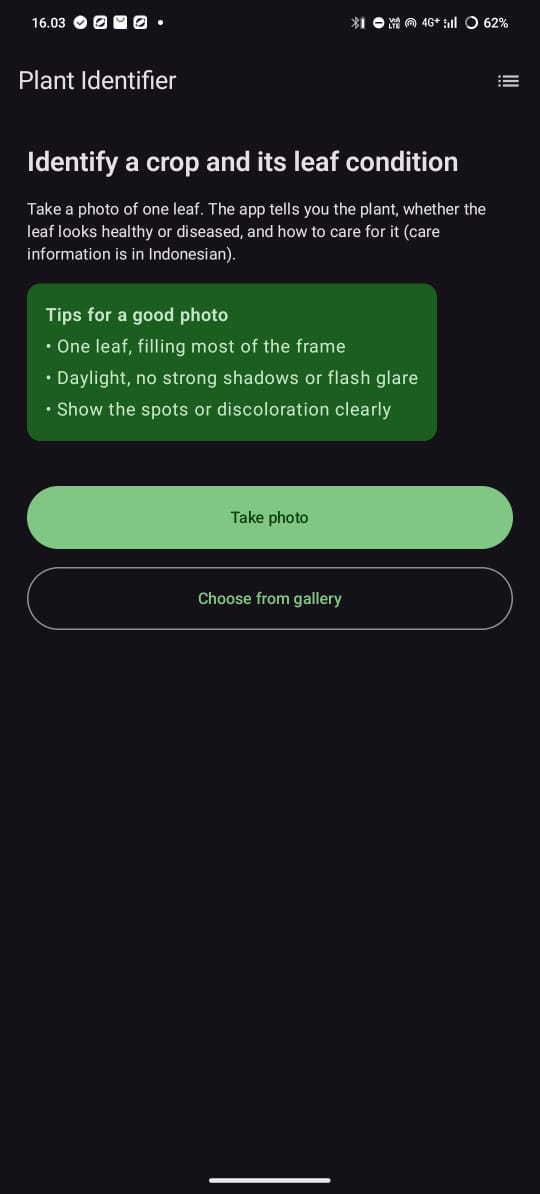
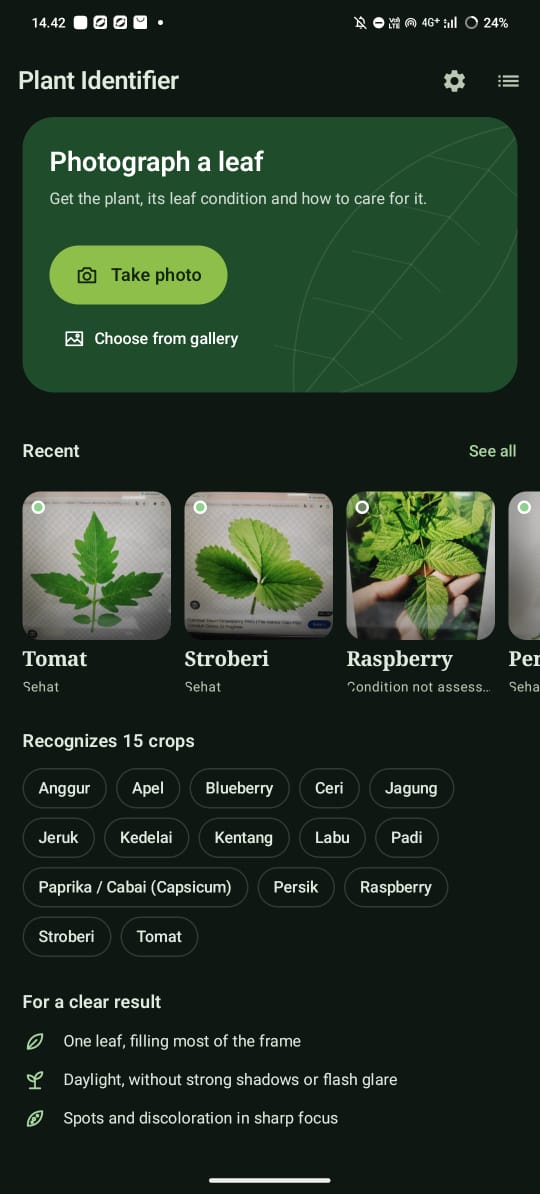
README: final version with screenshots of the redesigned app, phone testing, limitations and next steps

diff --git a/README.md b/README.md
@@ -121,9 +121,13 @@ by the notebook (`eval/` in the training artifacts, attached to each
 
 ## Android app
 
-| Home | Result | Not recognized | History |
+| Home | Result: Diagnosis | Result: Care | Result: Schedule |
 |---|---|---|---|
-| <img src="docs/images/android_home.jpg" width="190" alt="Home screen with take-photo and gallery buttons, recent diagnoses and supported plants"> | <img src="docs/images/android_result.jpg" width="190" alt="Result screen with the plant, leaf condition, confidence and care information in Indonesian"> | <img src="docs/images/android_unrecognized.jpg" width="190" alt="A corn cob photo answered with Not recognized and the closest matches"> | <img src="docs/images/android_history.jpg" width="190" alt="History of saved diagnoses with status tags"> |
+| <img src="docs/images/android_home.jpg" width="190" alt="Home screen with take-photo and gallery buttons, recent diagnoses and the 15 supported crops"> | <img src="docs/images/android_result.jpg" width="190" alt="Strawberry recognized at 86%, leaf healthy, Diagnosis tab with top predictions"> | <img src="docs/images/android_care.jpg" width="190" alt="Care tab: where it grows in Indonesia, planting, water, fertilizer and harvest in Indonesian"> | <img src="docs/images/android_schedule.jpg" width="190" alt="Schedule tab: timeline in days after planting"> |
+
+| Not recognized | History |
+|---|---|
+| <img src="docs/images/android_unrecognized.jpg" width="190" alt="A corn cob photo answered with Not recognized and the closest matches"> | <img src="docs/images/android_history.jpg" width="190" alt="History of saved diagnoses with status tags"> |
 
 Kotlin + Jetpack Compose, MVVM, Retrofit, Room.
 
